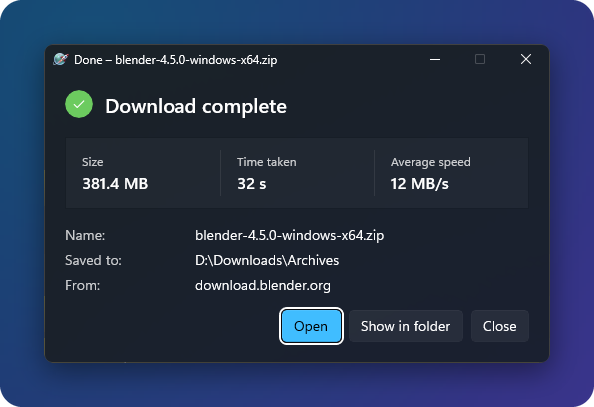
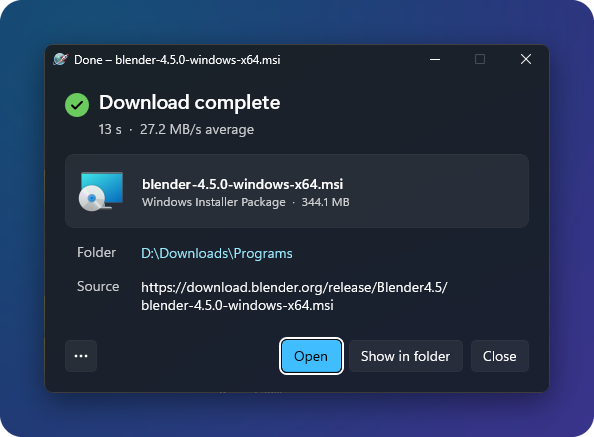
README: the redesigned Download complete window
New light and dark captures of the finished-download window, a cropped focus shot of its header and file card, and a short description of what it offers. The placeholder note is gone.

diff --git a/README.md b/README.md
@@ -137,11 +137,22 @@ paste a link, **Pause all**, and what to do when everything is done.
 
 ### After a download
 
-<!-- Placeholder: complete-light/-dark.png show the completion window before its redesign; recapture once it is in dev. -->
+<p align="center">
+  <picture>
+    <source media="(prefers-color-scheme: dark)" srcset="docs/screenshots/complete-focus-dark.png">
+    <img src="docs/screenshots/complete-focus-light.png" width="520" alt="Download complete: the time taken and average speed, and the file as a card with its icon, name, type and size">
+  </picture>
+</p>
+
+When a download finishes, its window shows the file as a card: open it with Enter or a
+double-click, or drag it into another app or Explorer. The folder and the source link sit under it,
+each with a copy button, and the **⋯** menu has Open with, Copy file path, Copy download link,
+Download again and Delete file.
+
 <p align="center">
   <picture>
     <source media="(prefers-color-scheme: dark)" srcset="docs/screenshots/complete-dark.png">
-    <img src="docs/screenshots/complete-light.png" width="440" alt="The completion screen: size, time taken and average speed, with Open, Show in folder and Close">
+    <img src="docs/screenshots/complete-light.png" width="440" alt="The finished download window with the file card, its folder and source, and Open, Show in folder and Close">
   </picture>
 </p>
 
